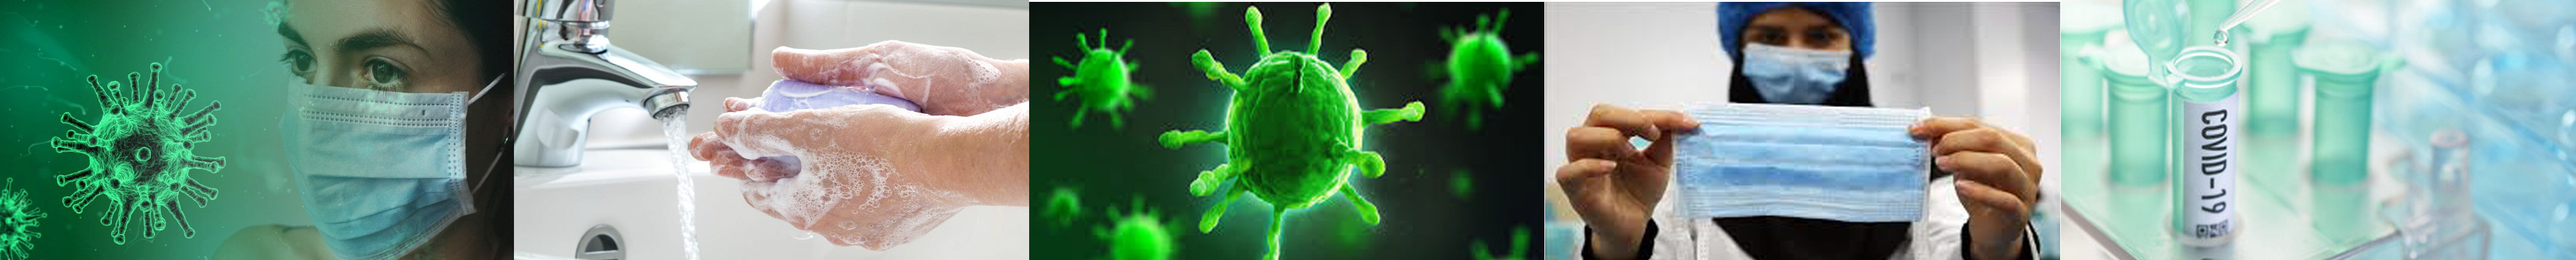
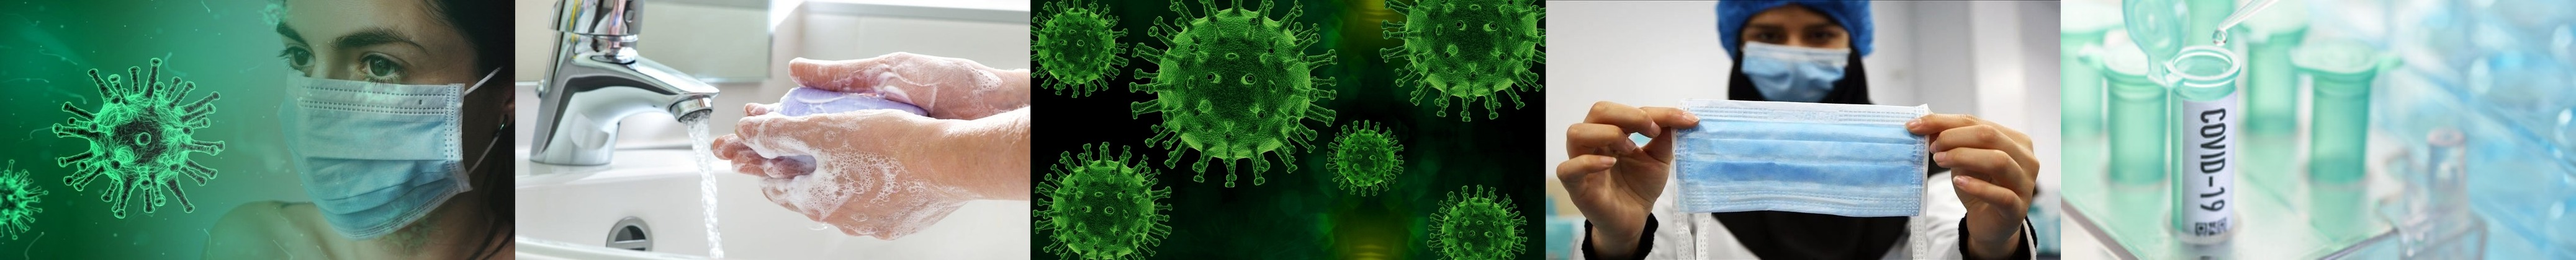
Slideshow updated

diff --git a/css/slideshow.css b/css/slideshow.css
@@ -1,10 +1,10 @@
 .simple-ss {
   width:830px;
   height:420px;
+  margin: auto;
   margin-top: 20px;
-  margin: 0 auto;
   background: transparent;
-  background-image:url("../images/corona.jpg");
+  background-image:url("../images/slideshow.jpg");
   background-repeat:no-repeat;
   background-size:cover;
 
@@ -20,15 +20,15 @@
 @keyframes slide {
   0% {background-position:0 0;}
   8.33% {background-position:0 0;}
-  16.66% {background-position:-840px 0;} 
-  24.99% {background-position:-840px 0;}
-  33.32% {background-position:-1680px 0;}
-  41.65% {background-position:-1680px 0;}
-  49.98% {background-position:-2520px 0;}
-  58.31% {background-position:-2520px 0;}
-  66.64% {background-position:-3360px 0;}
-  74.97% {background-position:-3360px 0;}
-  83.33% {background-position:-1680px 0;}
-  91.63% {background-position:-1680px 0;}
+  16.66% {background-position:-830px 0;} 
+  24.99% {background-position:-830px 0;}
+  33.32% {background-position:-1660px 0;}
+  41.65% {background-position:-1660px 0;}
+  49.98% {background-position:-2490px 0;}
+  58.31% {background-position:-2490px 0;}
+  66.64% {background-position:-3320px 0;}
+  74.97% {background-position:-3320px 0;}
+  83.33% {background-position:-1660px 0;}
+  91.63% {background-position:-1660px 0;}
   100% {background-position:0 0;}
 }
